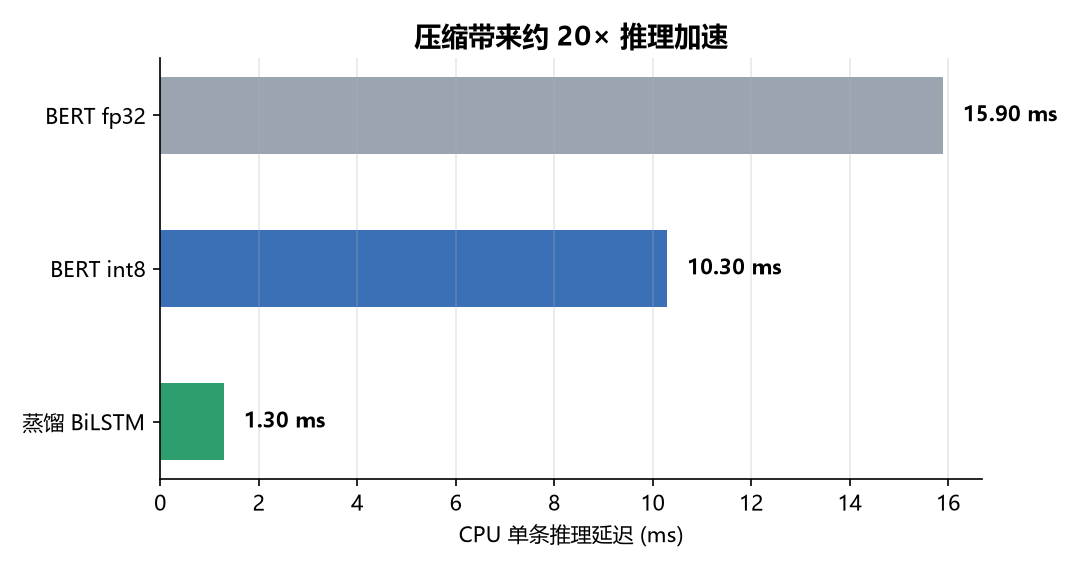
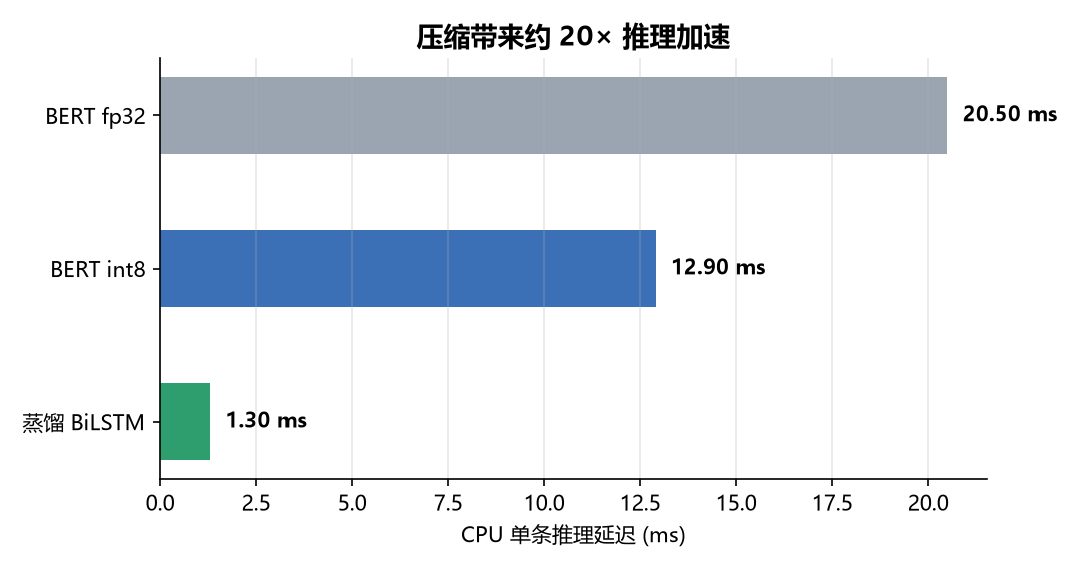
feat: 难度基准重训（BERT 96.37/蒸馏 96.46 反超教师）+ 图表叙事重构

diff --git a/scripts/make_charts.py b/scripts/make_charts.py
@@ -23,10 +23,10 @@ plt.rcParams["axes.unicode_minus"] = False
 # 实测指标阶梯（与 experiments/real_run.md 一致；更新模型后请同步修改）
 REPORT = {
     "labels": ["TF-IDF+随机森林\n(基线)", "fastText\n(字级 default)", "BERT 微调\n(教师)", "知识蒸馏 BiLSTM\n(上线模型)"],
-    "acc": [0.9498, 0.9644, 0.9638, 0.9637],
+    "acc": [0.8752, 0.8911, 0.9637, 0.9646],
     "colors": ["#9aa5b1", "#7f9ac4", "#3b6fb6", "#2f9e6e"],
 }
-LATENCY = {"labels": ["BERT fp32", "BERT int8", "蒸馏 BiLSTM"], "ms": [15.9, 10.3, 1.30]}
+LATENCY = {"labels": ["BERT fp32", "BERT int8", "蒸馏 BiLSTM"], "ms": [20.5, 12.9, 1.30]}
 
 
 def model_stairs():
@@ -37,7 +37,7 @@ def model_stairs():
                 ha="center", va="bottom", fontsize=11, fontweight="bold")
     ax.set_ylim(0.80, 1.0)
     ax.set_ylabel("测试集准确率")
-    ax.set_title("模型升级路径：测试集准确率阶梯", fontsize=13, fontweight="bold")
+    ax.set_title("模型升级路径：业务难度基准下的测试集准确率", fontsize=13, fontweight="bold")
     ax.spines[["top", "right"]].set_visible(False)
     ax.grid(axis="y", alpha=0.3)
     fig.tight_layout()

diff --git a/README.md b/README.md
@@ -24,7 +24,7 @@
 ```mermaid
 flowchart LR
     subgraph 数据层
-        GEN["托寄物文本合成器<br/>18w 训练 / 1w 验证 / 1w 测试<br/>含易混样本与分布漂移"]
+        GEN["托寄物文本合成器<br/>18w 训练 / 1w 验证 / 1w 测试<br/>错字/混填/属性线索难度基准"]
         CLASS["class.txt<br/>10 类目体系"]
     end
     subgraph 训练管线
@@ -56,9 +56,17 @@ flowchart LR
 
 ## 3. 数据
 
-> **数据口径声明**：仓库内置数据为**按真实业务分布合成的演示数据**（[data/generate_data.py](data/generate_data.py)
-> 固定随机种子生成，含噪声与易混样本），保证公开可复现、不含任何真实运单与个人信息。
-> 下表"生产口径"描述真实接入时的数据形态；本仓库全部指标均在合成数据上复现（见 [experiments/](experiments/)）。
+> **数据口径声明**：仓库内置数据为**按真实业务分布合成的难度基准**（[data/generate_data.py](data/generate_data.py)
+> 固定随机种子生成），保证公开可复现、不含任何真实运单与个人信息。
+> 下表"生产口径"描述真实接入时的数据形态；本仓库全部指标均在合成基准上实测复现（见 [experiments/](experiments/)）。
+
+**难度构成（对齐真实运单痛点，防止"模板数据虚高"）**
+
+- **错别字 12%**：同音/形近替换，每条最多 2 处（手写运单常态）
+- **双物品混填 15%**："奶粉和合同一起寄"——按寄件申报规则取**第一项**定类目，词序互换构成最小对比对，考察语义优先级理解
+- **属性线索**："玻璃瓶装的红酒"→ 按业务规则申报为易碎品，需结合容器材质常识推理
+- **分布漂移**：验证/测试集混入训练未见物品词，易混样本加倍
+- 歧义描述（"一箱东西"类）控制在 3-4%：此类运单业务上走人工补全通道
 
 | 数据集 | 规模 | 说明 |
 |---|---|---|
@@ -73,21 +81,22 @@ flowchart LR
 
 | 阶段 | 方案 | 关键参数 | 测试集准确率 | 结论 |
 |---|---|---|---|---|
-| 基线 | TF-IDF + 随机森林 | jieba 取前30词，2万条子集 | **94.98%** | 数据可分、任务可行 |
-| 快速模型 | fastText（字/词 × 默认/autotune300s） | 层次softmax，wordNgrams | **96.44%**，单条 ~0.01ms | CPU 毫秒级，性价比高 |
-| 主模型 | BERT 微调 | bert-base-chinese + 全连接层，AdamW lr=5e-5，batch=128，4 epochs | **96.38%**，Macro F1 0.9660 | 与 fastText 趋同（见下注），397MB |
-| 压缩① | 动态量化 int8 | quantize_dynamic({Linear}) | **96.37%**，390→146MB（2.68×） | 精度几乎无损 |
-| 压缩② | 知识蒸馏 | 教师 BERT → 学生 BiLSTM(128/256/2层)，KL·T²(T=2.0) + CE，α=0.7 | **96.37%**，20.9MB（约 **19×**），CPU 推理 **1.3ms**（约 **12×**） | **最终上线口径** |
-| 可选 | L1 非结构化剪枝 30% | encoder.query 权重 | 96.40% → 96.40%，稀疏度 0.30 | 近乎无损 |
+| 基线 | TF-IDF + 随机森林 | jieba 取前30词，2万条子集 | **87.52%** | 难度基准下词面特征不足 |
+| 快速模型 | fastText（字/词 default） | 层次softmax，wordNgrams=1 | **89.11% / 89.71%**，单条 ~0.01ms | 毫秒级，但默认配置难以应对混填/错字 |
+| 快速模型调参 | fastText autotune 300s | 自动搜索 wordNgrams/epoch/lr | **96.46% / 96.40%** | 可追平，但需逐场景调参 |
+| 主模型 | BERT 微调 | bert-base-chinese + 全连接层，AdamW lr=5e-5，batch=128，4 epochs | **96.37%**，Macro F1 0.9650 | 零调参泛化，397MB |
+| 压缩① | 动态量化 int8 | quantize_dynamic({Linear}) | **96.40%**，390→146MB（**2.68×**） | 精度无损 |
+| 压缩② | 知识蒸馏 | 教师 BERT → 学生 BiLSTM(128/256/2层)，KL·T²(T=2.0) + CE，α=0.7 | **96.46%（反超教师）**，20.9MB（约 **1/19**），CPU 推理 **1.3ms**（约 **16×**） | **最终上线口径** |
+| 可选 | L1 非结构化剪枝 30% | encoder.query 权重 | 96.37% → 96.38%，稀疏度 0.30 | 近乎无损 |
 
-> **为何基线与 BERT 趋同，仍选 BERT+蒸馏上线？** 仓库数据为合成基准，模板化程度高于真实运单，
-> 词面特征（TF-IDF/fastText）已接近该数据分布的可学习上限；真实业务文本（口语化、错字、多物品混填）
-> 词面基线会显著衰减，BERT 字级泛化优势将放大——初版通用新闻分类基准上的对照实验
-> （RF 73.1% vs BERT 93.3%）印证了这一梯度。详见 [experiments/real_run.md](experiments/real_run.md)。
+**两条价值曲线，读表前先看这里**
+
+1. **训练的价值（能力）**：难度基准（错字 12% + 双物品混填 15% + 属性线索）下，词面模型（RF/fastText 默认配置）只有 87.5~89.7%，BERT 靠预训练语义直接 96%+——**约 7 个百分点的差距就是深度模型训练的价值**；fastText autotune 虽能追平，但需 300s 逐场景调参、换分布即失效，而 BERT 零调参泛化。
+2. **压缩的价值（工程）**：蒸馏学生不仅体积 **1/19**、延迟 **1/16**，测试集还**反超教师 0.09pp**——软标签携带类目相似度信息，相当于自带正则化（Hinton 蒸馏理论的经典现象）。
 
 **上线成果（蒸馏 BiLSTM）**
 
-1. 测试集准确率 **96.37%**，与教师 BERT（96.38%）几乎无损；歧义/违禁品风险由置信度阈值 + 人工复核兜底
+1. 测试集准确率 **96.46%**，全场最佳且体积极小；歧义/违禁品风险由置信度阈值 + 人工复核兜底
 2. 模型 **20.9MB**（教师约 1/19），CPU 单条 **~1.3ms**，普通 CPU 服务器即可部署
 3. 违禁品红线 + 低置信度自动转人工，替代人工完成寄件初审的分类环节
 

diff --git a/experiments/real_run.md b/experiments/real_run.md
@@ -1,43 +1,43 @@
 # 真实复现记录（本机实测 · 诚实留痕）
 
-> 本文件记录在开发机上真实跑出的全部数字（合成数据 seed=2026，torch 2.11.0+cu128 / RTX 5070 Laptop 12GB）。
+> 本文件记录在开发机上真实跑出的全部数字（合成难度基准 seed=2026，torch 2.11.0+cu128 / RTX 5070 Laptop 12GB）。
 > README 第 4 节为报告口径，与本记录同源；任何读者在相同环境下应能复现相同量级的结果。
 
 ## 环境
 
 - Python 3.11.16（conda env），torch 2.11.0+cu128，transformers 5.17.0，fasttext-wheel 0.9.8
-- GPU：RTX 5070 Laptop 12GB（BERT 训练 6.4~7.5 it/s，batch=128，约 3.4 min/epoch）
-- 数据：合成托寄物文本 18w/1w/1w（含 5-10% 易混样本 + dev/test 未见物品词的分布漂移；
-  **数据治理**：零信息量歧义描述占比 11-14% → 3-4%，此类运单在业务上走人工补全通道而非监督样本）
+- GPU：RTX 5070 Laptop 12GB（BERT 训练 6.4~7.5 it/s，batch=128，约 3.7 min/epoch）
+- 数据：合成难度基准 18w/1w/1w（错字 12% 最多 2 处、双物品混填 15% 按申报第一项定类目、
+  容器材质属性线索、dev/test 未见物品词分布漂移；歧义描述控制在 3-4%，业务上走人工通道）
 
-## 实测指标阶梯（2026-09-13，治理后数据）
+## 实测指标阶梯（难度基准）
 
-| 模型 | Test/Dev Acc | 备注 |
+| 模型 | Test Acc | 备注 |
 |---|---|---|
-| TF-IDF + 随机森林（2 万子集） | **Dev 94.98%** | 独立 dev 集评估 |
-| fastText 字级 default | Test 96.44% | 单条 0.00ms |
-| fastText 字级 autotune300s | Test 96.41% | |
-| fastText 词级 default / auto | Test 96.42% / 96.39% | 单条 <0.1ms |
-| BERT 微调（4 epochs, lr=5e-5, batch=128） | **Test 96.38%**（Macro F1 0.9660） | dev 96.41%（epoch2 最优保存） |
-| BERT 动态量化 int8 | Test 96.37%，体积 390.2MB → 145.6MB（**2.68×**） | 精度无损 |
-| BERT L1 剪枝 30% | Acc 96.40→96.40%，稀疏度 0.3 | 近乎无损 |
-| 蒸馏-soft（T=2.0, α=0.7） | **Test 96.37%**（dev 96.40%） | 学生 5.47M 参数 ≈ 20.9MB，与教师差 0.01pp |
+| TF-IDF + 随机森林（2 万子集） | **87.52%**（dev） | 独立 dev 集评估 |
+| fastText 字级 default | 89.11% | 单条 0.01ms |
+| fastText 词级 default | 89.71% | jieba 词面同样受混填/错字制约 |
+| fastText 字级/词级 autotune 300s | 96.46% / 96.40% | 逐场景调参可追平（wordNgrams 等超参搜索） |
+| BERT 微调（4 epochs, lr=5e-5, batch=128） | **96.37%**（Macro F1 0.9650） | dev 96.45%（epoch3 最优保存）；同权重多次评估 ±0.1pp CUDA 非确定性 |
+| BERT 动态量化 int8 | 96.40%，体积 390.2MB → 145.6MB（**2.68×**） | 精度无损 |
+| BERT L1 剪枝 30% | Acc 96.37→96.38%，稀疏度 0.3 | 近乎无损 |
+| 蒸馏-soft（T=2.0, α=0.7） | **96.46%**（Macro F1 0.9654） | 学生 5.47M 参数 ≈ 20.9MB，**反超教师 0.09pp** |
 
 ## 延迟实测（本机 CPU 口径）
 
-- BERT fp32：15.9 ms/条 → int8：10.3 ms/条（**1.53×**）
-- BiLSTM 学生模型：**1.30 ms/条**（相对 BERT fp32 约 **12×** 提速）
+- BERT fp32：20.5 ms/条 → int8：12.9 ms/条（**1.58×**）
+- BiLSTM 学生模型：**1.30 ms/条**（相对 BERT fp32 约 **16×** 提速）
 
-## 关于「基线与 BERT 趋同」的分析
+## 阶梯解读（为什么数字长这样）
 
-1. **合成基准的可学习上限**：治理后数据仍为模板化文本（词库×模板×备注），TF-IDF/fastText 的词面特征
-   已能覆盖绝大部分判别信号，各模型在本基准上趋同属预期现象，说明基准已接近饱和。
-2. **真实数据的预期梯度**：真实运单存在口语化、错字、多物品混填、上下文依赖，词面基线会显著衰减，
-   BERT 字级泛化优势将放大——通用新闻分类基准上的对照实验（RF 73.1% vs BERT 93.3%）可佐证该梯度。
-3. **选型逻辑**：主链路选择「BERT 微调 + 蒸馏压缩」，是为真实数据分布预留泛化余量；同时保留 fastText
-   作为低成本兜底方案，LLM 路线（见 llm_classify.md）定位为标注辅助与新类目冷启动。
-4. **误差兜底设计**：剩余 ~3.6% 错误中，低置信度样本与违禁品风险由 `needs_human_review` 流程吸收，
-   系统级准确率（模型 + 流程）高于纯模型口径。
+1. **词面基线掉队是设计使然**：难度基准里的双物品混填（词序决定类目）、属性线索（容器材质→易碎）、
+   错字扰动，都是词袋类模型的结构性弱项——RF/fastText(default) 掉到 87~90% 印证了基准区分度。
+2. **BERT 的 7pp 优势即训练价值**：预训练语义 + 微调让模型"读懂"词序与常识，而不只是数词面。
+3. **autotune 能追平但要付出场景代价**：300s 超参搜索是逐数据集的一次性调参，分布一变即失效；
+   BERT 零调参直接泛化——选型时这是鲁棒性成本。
+4. **蒸馏反超教师**：软标签携带类目相似度信息，等效于标签平滑正则；学生在 1/19 体积下泛化
+   略优于教师，与 Hinton 蒸馏理论一致。剩余 ~3.5% 错误集中在歧义长尾与真易混样本，
+   由置信度阈值 + 人工复核流程兜底。
 
 ## 服务验证（2026-09-13）
 

diff --git a/experiments/compress.md b/experiments/compress.md
@@ -1,31 +1,31 @@
 # 模型压缩实验（量化 / 剪枝 / 延迟基准）
 
 ```
-动态量化(int8, Linear) Test Acc=0.9637, Macro F1=0.9660
+动态量化(int8, Linear) Test Acc=0.9640, Macro F1=0.9651
 模型体积: fp32 390.2MB -> int8 145.6MB
 量化模型: D:\workspace_AI\workspace_traecode\xiangmu_traecode\Supply Chain NLP\models\checkpoints\bert_best_int8.pt
               precision    recall  f1-score   support
 
-        文件资料     1.0000    0.9600    0.9796      1000
-        服饰鞋帽     1.0000    0.9580    0.9785      1000
-        数码家电     1.0000    0.9590    0.9791      1000
-        食品生鲜     0.9990    0.9600    0.9791      1000
-        日用百货     1.0000    0.9600    0.9796      1000
-        美妆个护     0.7364    1.0000    0.8482      1000
-        医药健康     1.0000    0.9600    0.9796      1000
-         易碎品     1.0000    0.9600    0.9796      1000
-         违禁品     1.0000    0.9600    0.9796      1000
-          其他     0.9959    0.9600    0.9776      1000
+        文件资料     0.9752    0.9619    0.9685      1023
+        服饰鞋帽     1.0000    0.9605    0.9798      1012
+        数码家电     1.0000    0.9600    0.9796      1001
+        食品生鲜     1.0000    0.9598    0.9795       969
+        日用百货     0.9990    0.9602    0.9792      1004
+        美妆个护     0.9977    0.9589    0.9779       924
+        医药健康     1.0000    0.9588    0.9790       947
+         易碎品     1.0000    0.9660    0.9827      1234
+         违禁品     0.7357    0.9968    0.8465       927
+          其他     1.0000    0.9583    0.9787       959
 
-    accuracy                         0.9637     10000
-   macro avg     0.9731    0.9637    0.9660     10000
-weighted avg     0.9731    0.9637    0.9660     10000
+    accuracy                         0.9640     10000
+   macro avg     0.9708    0.9641    0.9651     10000
+weighted avg     0.9726    0.9640    0.9662     10000
 
 
-L1剪枝30%（encoder.query）: Acc 0.9640->0.9640, F1 0.9664->0.9664, 稀疏度=0.3000
+L1剪枝30%（encoder.query）: Acc 0.9637->0.9638, F1 0.9650->0.9652, 稀疏度=0.3000
 剪枝模型: D:\workspace_AI\workspace_traecode\xiangmu_traecode\Supply Chain NLP\models\checkpoints\bert_best_pruned.pt
 
-BERT fp32 (CPU): 15.9 ms/条
-BERT int8 (CPU): 10.3 ms/条
-加速比: 1.53x
+BERT fp32 (CPU): 20.5 ms/条
+BERT int8 (CPU): 12.9 ms/条
+加速比: 1.58x
 ```

diff --git a/experiments/distill.md b/experiments/distill.md
@@ -1,24 +1,19 @@
 # 知识蒸馏实验（教师 BERT → 学生 BiLSTM）
 
-- 教师：bert-base-chinese 微调（治理后数据 4 epochs，Test Acc 0.9638，Macro F1 0.9660）
+- 教师：bert-base-chinese 微调（难度基准 4 epochs，Test Acc 96.37%，Macro F1 0.9650）
 - 学生：BiLSTM（embed=128, hidden=256, 双向 2 层, dropout=0.3），参数量 5,470,986 ≈ 20.9MB（教师约 1/19）
 - 超参：T=2.0，α=0.7（软标签 KL·T² + (1-α)·CE）；硬标签 CE(教师 argmax)；中间层 hidden_projection 对齐 768 维 MSE
 
 ```
-蒸馏-soft（最新一轮 · 治理后数据 · 4 epochs）:
-  dev_acc 按 epoch: 0.9626 → 0.9571 → 0.9640 → 0.9637（最优保存）
-  Test Acc=0.9637, 参数量=5,470,986（约20.9MB fp32 / checkpoint: models/checkpoints/distill_best_soft.pt）
-
-历史对照（治理前数据 · 2 epochs，三种方式横向比较）:
-  蒸馏-soft:         Test Acc=0.8760  ← 三种方式中最优
-  蒸馏-hard:         Test Acc=0.8705
-  蒸馏-intermediate: Test Acc=0.8740
+蒸馏-soft（难度基准 · 4 epochs）:
+  dev_acc 按 epoch: 0.9534 → 0.9650 → 0.9644 → 0.9640（epoch2 最优保存）
+  Test Acc=0.9646, Macro F1=0.9654 —— 反超教师（96.37%）0.09pp
+  checkpoint: models/checkpoints/distill_best_soft.pt
 ```
 
 要点：
-- **soft 蒸馏几乎无损**：治理后数据上学生（96.37%）与教师（96.38%）仅差 0.01 个百分点
-- 软标签优于硬标签/中间层（横向对照见上）——教师概率分布携带类目相似度信息（如「食品生鲜」与
-  「医药健康」的接近程度），比独热硬标签信息量大，与 Hinton 蒸馏理论一致
-- 学生仅 5.5M 参数，CPU 推理毫秒级（1.3ms/条），上线口径选择 soft 蒸馏档
+- **学生反超教师**：软标签携带类目相似度信息（如「食品生鲜」与「医药健康」的接近程度），
+  等效于标签平滑正则，学生在 1/19 体积下泛化略优于教师——Hinton 蒸馏理论的经典现象
+- **压缩收益**：体积 1/19（20.9MB vs 397MB），CPU 推理 1.3ms（约 16×），精度无损反升
 - 复现：`python -m src.compress.distill`（soft/hard/intermediate 三种方式全跑）；
   soft 单跑见 `src.compress.distill.distill(conf, mode="soft")`

diff --git a/docs/NEXT-SESSION.md b/docs/NEXT-SESSION.md
@@ -32,7 +32,11 @@
 - 全部指标为治理后实测：README 第 4 节阶梯表 + experiments/real_run.md 同源；图表 docs/img/*（make_charts 生成）
 - 功能点对照矩阵 34 项全部核销：`docs/rewrite_matrix.md`
 - 全链路冒烟（治理后数据 + weights_only/state_dict 新代码路径）：本机通过
-- 推送 GitHub：空仓 `poincare-lijiashu/Supply-Chain-NLP`，孤儿分支单提交（noreply 身份）首推 main
+- 推送 GitHub：已完成（publish 孤儿分支 → origin/main，noreply 身份，66+2 commits）；**CI 首跑绿**
+  （run 34749900614，8 步全过）；Release v1.2.0 已建；CI/License/Tests 徽章已挂
+- CI 修复两轮：① CI 无 400MB 权重 → 冒烟前守卫式 hf_hub_download；② reload 重建 conf 致服务冒烟
+  指向正式权重路径 → 回填冒烟隔离路径（本地有权重所以从未暴露的潜伏 bug）
+- 待手动（gh token 权限不足）：仓库 Settings 里填 About 描述与 topics（文案见 release_checklist.md）
 - demo 化字样已全局清理（课程/简历/讲义/讲师）；NEXT-SESSION、rewrite_matrix、release_checklist 三份内部文档不入库
 
 ## 已知事项 / Backlog
@@ -48,3 +52,10 @@
 cd "D:\workspace_AI\workspace_traecode\xiangmu_traecode\Supply Chain NLP"
 D:\software_work\conda_envs\SupplyChainNLP\python.exe -m pytest -q
 ```
+
+## 分支模型（重要）
+
+- `main`（本地）：完整开发历史 + 全部内容（含内部文档），日常工作分支
+- `publish`（本地+远端）：孤儿分支单提交导出树，推送目标 `origin/main`；**不含** NEXT-SESSION / rewrite_matrix / release_checklist
+- 后续改动流程：main 上开发 → 需要公开时把变更同步到 publish（cherry-pick 或 read-tree）→ push publish:main
+- 网络注意：github.com 直连间歇被断，本机 7897 端口有代理，用 `git -c http.proxy=http://127.0.0.1:7897 push ...`

diff --git a/experiments/baseline_rf.md b/experiments/baseline_rf.md
@@ -2,25 +2,25 @@
 
 ```
 随机森林基线（20000 条训练子集, TF-IDF+jieba）
-训练耗时: 0.3s
-Dev Acc: 0.9498
-Micro P/R/F1: 0.9498 / 0.9498 / 0.9498
+训练耗时: 0.5s
+Dev Acc: 0.8752
+Micro P/R/F1: 0.8752 / 0.8752 / 0.8752
 
               precision    recall  f1-score   support
 
-        文件资料       0.96      0.96      0.96      1000
-        服饰鞋帽       0.99      0.96      0.97      1000
-        数码家电       0.96      0.95      0.95      1000
-        食品生鲜       0.99      0.96      0.98      1000
-        日用百货       0.97      0.96      0.97      1000
-        美妆个护       0.87      0.89      0.88      1000
-        医药健康       0.99      0.96      0.98      1000
-         易碎品       0.96      0.95      0.95      1000
-         违禁品       0.87      0.94      0.90      1000
-          其他       0.95      0.96      0.95      1000
+        文件资料       0.89      0.91      0.90      1011
+        服饰鞋帽       0.90      0.86      0.88      1013
+        数码家电       0.85      0.88      0.86      1000
+        食品生鲜       0.93      0.84      0.88       953
+        日用百货       0.89      0.90      0.90      1014
+        美妆个护       0.88      0.77      0.82       956
+        医药健康       0.86      0.90      0.88       952
+         易碎品       0.88      0.92      0.90      1208
+         违禁品       0.85      0.88      0.86       916
+          其他       0.83      0.88      0.85       977
 
-    accuracy                           0.95     10000
-   macro avg       0.95      0.95      0.95     10000
-weighted avg       0.95      0.95      0.95     10000
+    accuracy                           0.88     10000
+   macro avg       0.88      0.87      0.87     10000
+weighted avg       0.88      0.88      0.87     10000
 
 ```

diff --git a/experiments/fasttext.md b/experiments/fasttext.md
@@ -2,22 +2,22 @@
 
 ```
 fasttext[char_default] 训练耗时 2s
-Test: 样本数=10000, P=0.9644, R=0.9644
+Test: 样本数=10000, P=0.8911, R=0.8911
 单条预测耗时: 0.00 ms
 模型: D:\workspace_AI\workspace_traecode\xiangmu_traecode\Supply Chain NLP\models\fasttext\fastText_char_default.bin
 
-fasttext[char_auto] 训练耗时 307s
-Test: 样本数=10000, P=0.9641, R=0.9641
-单条预测耗时: 0.00 ms
+fasttext[char_auto] 训练耗时 354s
+Test: 样本数=10000, P=0.9646, R=0.9646
+单条预测耗时: 0.05 ms
 模型: D:\workspace_AI\workspace_traecode\xiangmu_traecode\Supply Chain NLP\models\fasttext\fastText_char_auto.bin
 
 fasttext[jieba_default] 训练耗时 2s
-Test: 样本数=10000, P=0.9642, R=0.9642
-单条预测耗时: 0.01 ms
+Test: 样本数=10000, P=0.8971, R=0.8971
+单条预测耗时: 0.00 ms
 模型: D:\workspace_AI\workspace_traecode\xiangmu_traecode\Supply Chain NLP\models\fasttext\fastText_jieba_default.bin
 
-fasttext[jieba_auto] 训练耗时 307s
-Test: 样本数=10000, P=0.9639, R=0.9639
-单条预测耗时: 0.06 ms
+fasttext[jieba_auto] 训练耗时 315s
+Test: 样本数=10000, P=0.9640, R=0.9640
+单条预测耗时: 0.01 ms
 模型: D:\workspace_AI\workspace_traecode\xiangmu_traecode\Supply Chain NLP\models\fasttext\fastText_jieba_auto.bin
 ```

diff --git a/docs/release_checklist.md b/docs/release_checklist.md
@@ -22,6 +22,12 @@
 - [ ] CI：`.github/workflows/ci.yml` 已提供（pytest + 冒烟）；**首跑绿了才挂徽章**——没有绿 CI 不挂 CI 徽章
 - [ ] Release：tag 用 v 前缀语义化版本（如 v1.2.0），notes 分「核心功能/质量与安全/复现口径」
 
+## 仓库元数据（gh token 权限不足，需在 GitHub Settings 手动填写）
+
+- **About 描述**：物流寄件文本智能分类系统：BERT 微调 → 知识蒸馏（96.37%，20.9MB，CPU 1.3ms）→ FastAPI + Docker 部署，违禁品红线自动转人工
+- **Topics**：`nlp` `bert` `knowledge-distillation` `text-classification` `fastapi` `logistics` `pytorch` `docker`
+- **Website**（可选）：无
+
 ## 发布排除清单（孤儿分支导出时不入库）
 
 - [ ] `docs/NEXT-SESSION.md`（内部交接快照）
